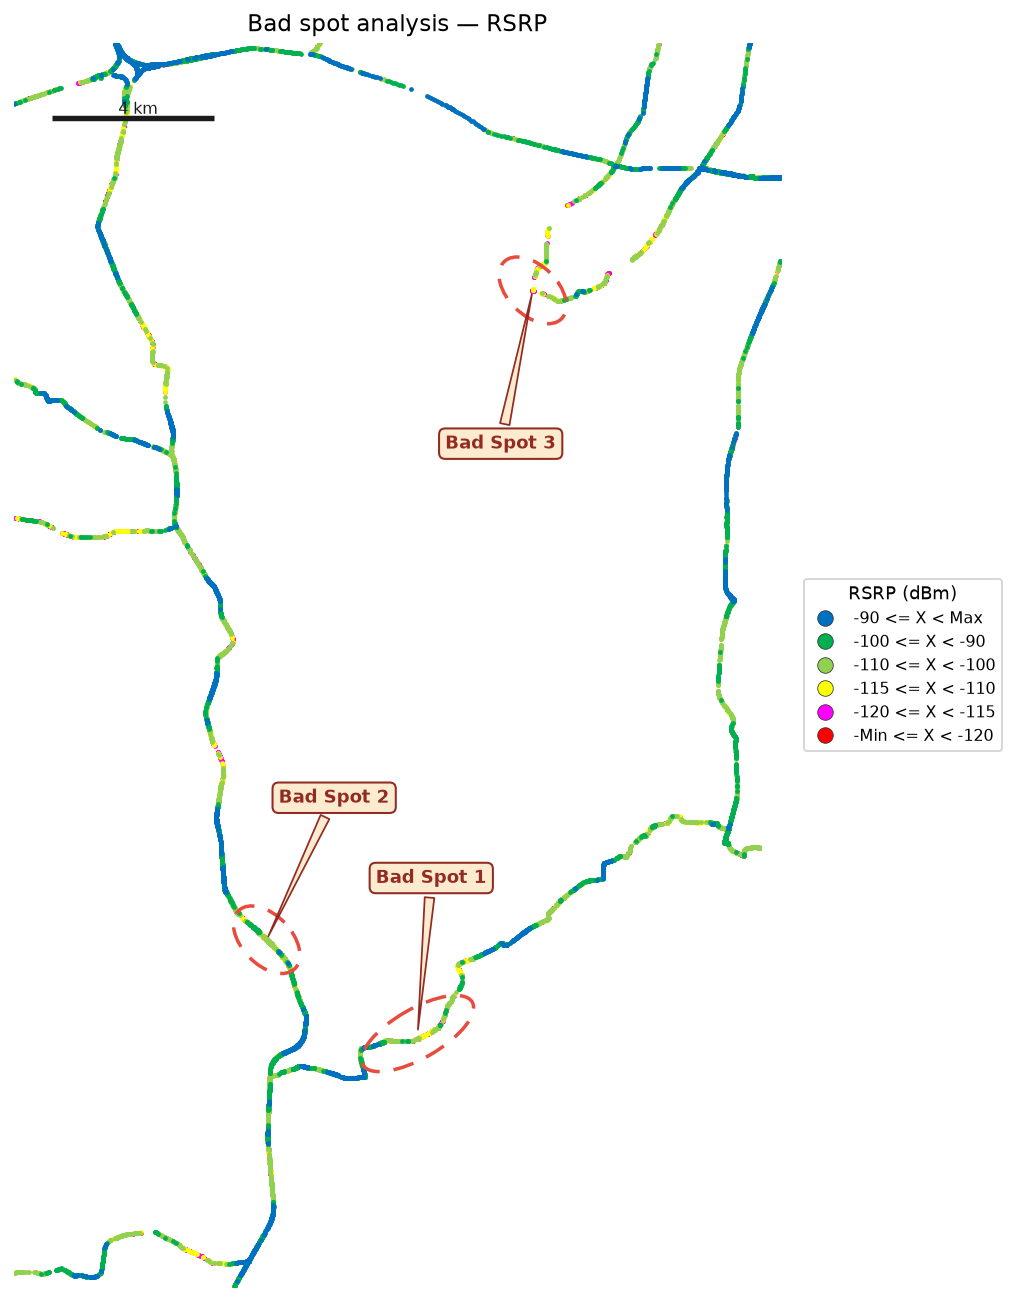
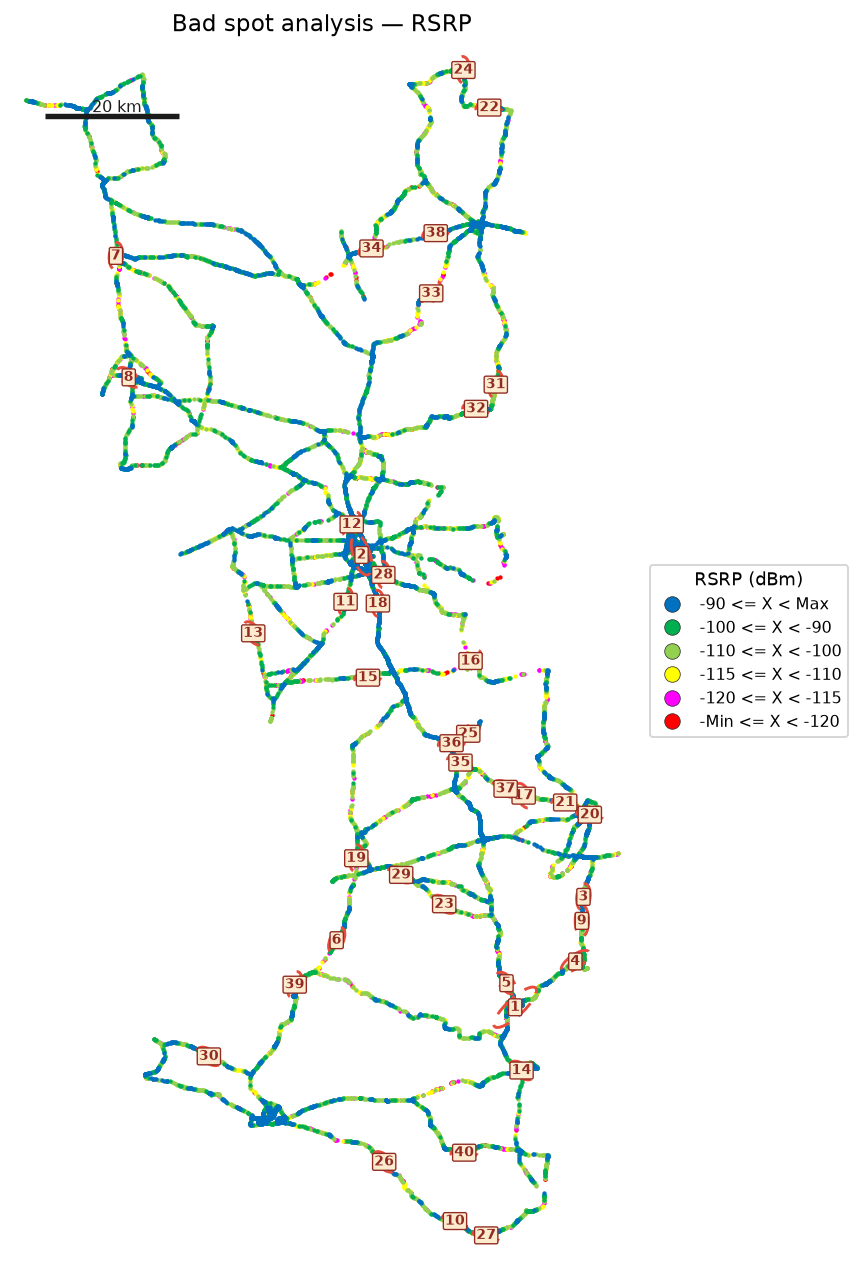
Mark every dense poor stretch on the full Bad Spot maps
The previous analysis only labelled three nearby clusters and zoomed
in, so most coverage holes on the drive were missed. Cluster poor
samples across the whole route and circle them on the full map.

diff --git a/merge_and_analyze.py b/merge_and_analyze.py
@@ -255,13 +255,11 @@ def plot_sinr_coverage_map(df: pd.DataFrame, path: Path, max_points: int = 25000
     )
 
 
-# Poor-sample rules for bad-spot clustering (legend bins that are yellow or worse).
-BAD_SPOT_GRID_DEG = 0.004
-BAD_SPOT_COUNT = 3
-BAD_SPOT_RADIUS_KM = 30
-BAD_SPOT_MIN_CELL_N = 40
-BAD_SPOT_MIN_POOR = 40
-BAD_SPOT_MIN_FRAC = 0.35
+# Poor-sample clustering. Use the full drive map and keep every dense
+# yellow/magenta/red stretch — not just the three worst nearby clusters.
+BAD_SPOT_GRID_DEG = 0.01  # ~1.1 km cells
+BAD_SPOT_MIN_POOR = 180
+BAD_SPOT_MAX = 40
 BAD_SPOT_RULES = {
     "RSRP": {"threshold": -115.0, "unit": "dBm"},
     "RSRQ": {"threshold": -15.0, "unit": "dB"},
@@ -285,21 +283,23 @@ def cluster_poor_cells(
     column: str,
     threshold: float,
     grid_deg: float = BAD_SPOT_GRID_DEG,
-    min_n: int = BAD_SPOT_MIN_CELL_N,
     min_poor: int = BAD_SPOT_MIN_POOR,
-    min_frac: float = BAD_SPOT_MIN_FRAC,
 ) -> pd.DataFrame:
-    """Merge adjacent grid cells of poor samples into scored clusters."""
+    """Cluster poor samples on a ~1 km grid and merge adjacent cells.
+
+    Every dense yellow/magenta/red stretch becomes a spot. Nearby cells join;
+    separate holes on other roads stay separate.
+    """
     g = df.dropna(subset=["Longitude", "Latitude", column]).copy()
     values = pd.to_numeric(g[column], errors="coerce")
-    g = g.loc[values.notna()].copy()
+    g = g.loc[values.notna() & (values < threshold)].copy()
     g[column] = values.loc[g.index]
-    g["poor"] = g[column] < threshold
+    if g.empty:
+        return pd.DataFrame()
     g["latb"] = np.floor(g["Latitude"] / grid_deg).astype(int)
     g["lonb"] = np.floor(g["Longitude"] / grid_deg).astype(int)
     agg = g.groupby(["latb", "lonb"], sort=False).agg(
-        n=(column, "size"),
-        n_poor=("poor", "sum"),
+        n_poor=(column, "size"),
         mean=(column, "mean"),
         lat=("Latitude", "mean"),
         lon=("Longitude", "mean"),
@@ -308,8 +308,7 @@ def cluster_poor_cells(
         lon_min=("Longitude", "min"),
         lon_max=("Longitude", "max"),
     )
-    agg["frac"] = agg["n_poor"] / agg["n"]
-    hot = agg[(agg["n"] >= min_n) & (agg["frac"] >= min_frac) & (agg["n_poor"] >= min_poor)]
+    hot = agg[agg["n_poor"] >= min_poor]
     if hot.empty:
         return pd.DataFrame()
 
@@ -332,9 +331,8 @@ def cluster_poor_cells(
                     queue.append(nb)
                     group.append(nb)
         part = hot.loc[group]
-        n = int(part["n"].sum())
         n_poor = int(part["n_poor"].sum())
-        weights = part["n"].to_numpy(dtype=float)
+        weights = part["n_poor"].to_numpy(dtype=float)
         mean = float(np.average(part["mean"], weights=weights))
         lat = float(np.average(part["lat"], weights=weights))
         lon = float(np.average(part["lon"], weights=weights))
@@ -342,13 +340,11 @@ def cluster_poor_cells(
         lat_max = float(part["lat_max"].max())
         lon_min = float(part["lon_min"].min())
         lon_max = float(part["lon_max"].max())
-        frac = n_poor / n if n else 0.0
-        score = n_poor * frac * max(0.0, threshold - mean)
         rows.append(
             {
-                "n": n,
+                "n": n_poor,
                 "n_poor": n_poor,
-                "poor_pct": frac,
+                "poor_pct": 1.0,
                 "mean": mean,
                 "lat": lat,
                 "lon": lon,
@@ -358,25 +354,17 @@ def cluster_poor_cells(
                 "lon_max": lon_max,
                 "span_lat_km": (lat_max - lat_min) * 111.32,
                 "span_lon_km": (lon_max - lon_min) * _km_per_deg_lon(lat),
-                "score": score,
+                "score": n_poor * max(0.0, threshold - mean),
             }
         )
     return pd.DataFrame(rows).sort_values("score", ascending=False).reset_index(drop=True)
 
 
-def select_nearby_spots(clusters: pd.DataFrame, count: int = BAD_SPOT_COUNT, radius_km: float = BAD_SPOT_RADIUS_KM) -> pd.DataFrame:
-    """Keep the worst cluster and the next-worst clusters near it (one zoomed view)."""
+def select_all_spots(clusters: pd.DataFrame, max_spots: int = BAD_SPOT_MAX) -> pd.DataFrame:
+    """Keep every significant cluster on the full drive, not one local window."""
     if clusters.empty:
         return clusters
-    ranked = clusters.sort_values("score", ascending=False).reset_index(drop=True)
-    seed = ranked.iloc[0]
-    nearby = ranked.head(1)
-    for radius in (radius_km, radius_km * 1.5, radius_km * 2.5):
-        dist = _equirect_km(seed["lat"], seed["lon"], ranked["lat"], ranked["lon"])
-        nearby = ranked.loc[dist <= radius].head(count)
-        if len(nearby) >= count:
-            break
-    return nearby.reset_index(drop=True)
+    return clusters.sort_values("score", ascending=False).head(max_spots).reset_index(drop=True)
 
 
 def _spot_extra_stats(df: pd.DataFrame, spot: pd.Series) -> dict:
@@ -395,19 +383,34 @@ def _spot_extra_stats(df: pd.DataFrame, spot: pd.Series) -> dict:
     }
 
 
-def find_bad_spots(df: pd.DataFrame, column: str, count: int = BAD_SPOT_COUNT) -> pd.DataFrame:
-    """Return the top local bad spots for one KPI, numbered 1..N."""
+def find_bad_spots(df: pd.DataFrame, column: str, max_spots: int = BAD_SPOT_MAX) -> pd.DataFrame:
+    """Return every significant bad spot for one KPI on the full drive, numbered 1..N."""
     rule = BAD_SPOT_RULES[column]
     clusters = cluster_poor_cells(df, column, rule["threshold"])
-    spots = select_nearby_spots(clusters, count=count)
+    spots = select_all_spots(clusters, max_spots=max_spots)
     if spots.empty:
         return spots
     extras = [_spot_extra_stats(df, row) for _, row in spots.iterrows()]
     spots = spots.copy()
+    bbox_n = []
+    bbox_poor = []
+    for _, row in spots.iterrows():
+        box = df[
+            df["Latitude"].between(row["lat_min"], row["lat_max"])
+            & df["Longitude"].between(row["lon_min"], row["lon_max"])
+        ]
+        vals = pd.to_numeric(box[column], errors="coerce")
+        n = int(vals.notna().sum())
+        n_poor = int((vals < rule["threshold"]).sum())
+        bbox_n.append(n)
+        bbox_poor.append(n_poor)
     spots["spot"] = np.arange(1, len(spots) + 1)
     spots["kpi"] = column
     spots["threshold"] = rule["threshold"]
     spots["unit"] = rule["unit"]
+    spots["n"] = bbox_n
+    spots["n_poor"] = bbox_poor
+    spots["poor_pct"] = np.array(bbox_poor) / np.maximum(np.array(bbox_n), 1)
     spots["mean_rsrp"] = [e["mean_rsrp"] for e in extras]
     spots["mean_rsrq"] = [e["mean_rsrq"] for e in extras]
     spots["mean_sinr"] = [e["mean_sinr"] for e in extras]
@@ -415,7 +418,7 @@ def find_bad_spots(df: pd.DataFrame, column: str, count: int = BAD_SPOT_COUNT) -
     return spots
 
 
-def _ellipse_from_points(lons: np.ndarray, lats: np.ndarray, min_km: float = 2.0) -> tuple[float, float, float, float, float]:
+def _ellipse_from_points(lons: np.ndarray, lats: np.ndarray, min_km: float = 4.0, max_km: float = 14.0) -> tuple[float, float, float, float, float]:
     """Return ellipse center/width/height/angle so a dashed oval follows the poor samples."""
     lon0 = float(np.mean(lons))
     lat0 = float(np.mean(lats))
@@ -423,7 +426,9 @@ def _ellipse_from_points(lons: np.ndarray, lats: np.ndarray, min_km: float = 2.0
     if len(lons) < 12:
         lon_span = max(float(np.max(lons) - np.min(lons)) if len(lons) else 0.0, min_km / km_lon)
         lat_span = max(float(np.max(lats) - np.min(lats)) if len(lats) else 0.0, min_km / 111.32)
-        return lon0, lat0, lon_span * 1.6, lat_span * 1.6, 0.0
+        width_deg = min(lon_span * 1.5, max_km / km_lon)
+        height_deg = min(lat_span * 1.5, max_km / 111.32)
+        return lon0, lat0, width_deg, height_deg, 0.0
     x = (lons - lon0) * km_lon
     y = (lats - lat0) * 111.32
     cov = np.cov(np.vstack([x, y]))
@@ -431,9 +436,8 @@ def _ellipse_from_points(lons: np.ndarray, lats: np.ndarray, min_km: float = 2.0
     order = np.argsort(eigvals)[::-1]
     eigvals = np.clip(eigvals[order], 0.05, None)
     eigvecs = eigvecs[:, order]
-    # ~2.4 sigma wraps the stretch of poor samples along the road.
-    width_km = max(3.0 * 2.0 * np.sqrt(eigvals[0]), min_km)
-    height_km = max(3.0 * 2.0 * np.sqrt(eigvals[1]), min_km * 0.6)
+    width_km = min(max(2.2 * 2.0 * np.sqrt(eigvals[0]), min_km), max_km)
+    height_km = min(max(2.2 * 2.0 * np.sqrt(eigvals[1]), min_km * 0.55), max_km * 0.7)
     angle = float(np.degrees(np.arctan2(eigvecs[1, 0], eigvecs[0, 0])))
     width_deg = width_km / km_lon
     height_deg = height_km / 111.32
@@ -462,38 +466,29 @@ def plot_bad_spot_map(
     legend_title: str,
     max_points: int = 25000,
 ) -> Path:
-    """Coverage map zoomed to the bad-spot area, with dashed ovals and callouts."""
+    """Full-drive coverage map with every significant poor stretch circled."""
     PLOTS_DIR.mkdir(parents=True, exist_ok=True)
     geo = df.dropna(subset=["Longitude", "Latitude", column]).copy()
     classes_all = class_series.reindex(geo.index)
-    if spots is None or spots.empty:
-        sample = downsample(geo, max_points=max_points)
-        classes = classes_all.reindex(sample.index)
-        lat_min = float(sample["Latitude"].min())
-        lat_max = float(sample["Latitude"].max())
-        lon_min = float(sample["Longitude"].min())
-        lon_max = float(sample["Longitude"].max())
-    else:
-        pad_lat = 0.06
-        pad_lon = 0.06
-        lat_min = float(spots["lat_min"].min()) - pad_lat
-        lat_max = float(spots["lat_max"].max()) + pad_lat
-        lon_min = float(spots["lon_min"].min()) - pad_lon
-        lon_max = float(spots["lon_max"].max()) + pad_lon
-        cropped = geo[
-            geo["Latitude"].between(lat_min, lat_max) & geo["Longitude"].between(lon_min, lon_max)
-        ]
-        if cropped.empty:
-            cropped = geo
-        sample = downsample(cropped, max_points=max_points)
-        classes = classes_all.reindex(sample.index)
+    sample = downsample(geo, max_points=max_points)
+    classes = classes_all.reindex(sample.index)
+    lat_min = float(geo["Latitude"].min())
+    lat_max = float(geo["Latitude"].max())
+    lon_min = float(geo["Longitude"].min())
+    lon_max = float(geo["Longitude"].max())
+    pad_lat = 0.02 * (lat_max - lat_min)
+    pad_lon = 0.02 * (lon_max - lon_min)
+    lat_min -= pad_lat
+    lat_max += pad_lat
+    lon_min -= pad_lon
+    lon_max += pad_lon
 
-    fig, ax = plt.subplots(figsize=(8.2, 9.4))
+    fig, ax = plt.subplots(figsize=(8.0, 9.2))
     for label, color in zip(reversed(labels), reversed(colors)):
         part = sample[classes == label]
         if part.empty:
             continue
-        ax.scatter(part["Longitude"], part["Latitude"], s=6, c=color, linewidths=0, rasterized=True, zorder=2)
+        ax.scatter(part["Longitude"], part["Latitude"], s=5, c=color, linewidths=0, rasterized=True, zorder=2)
     handles = [
         Line2D(
             [0],
@@ -524,8 +519,6 @@ def plot_bad_spot_map(
     if spots is not None and not spots.empty:
         threshold = float(spots["threshold"].iloc[0])
         poor = geo[pd.to_numeric(geo[column], errors="coerce") < threshold]
-        center_lon = (lon_min + lon_max) / 2.0
-        center_lat = (lat_min + lat_max) / 2.0
         for _, spot in spots.iterrows():
             box_poor = poor[
                 poor["Latitude"].between(spot["lat_min"], spot["lat_max"])
@@ -547,45 +540,28 @@ def plot_bad_spot_map(
                     fill=False,
                     edgecolor="#E74C3C",
                     linestyle=(0, (6, 4)),
-                    linewidth=1.8,
+                    linewidth=1.5,
                     zorder=4,
                 )
             )
-            km_lon = _km_per_deg_lon(cy)
-            vx = (center_lon - cx) * km_lon
-            vy = (center_lat - cy) * 111.32
-            norm = float(np.hypot(vx, vy)) or 1.0
-            ux, uy = vx / norm, vy / norm
-            # Spread labels so neighbouring spots do not stack.
-            spread = (int(spot["spot"]) - 2) * 0.55
-            px, py = -uy, ux
-            offset_km = 4.2
-            dx = (offset_km * ux + spread * px) / km_lon
-            dy = (offset_km * uy + spread * py) / 111.32
-            ax.annotate(
-                f"Bad Spot {int(spot['spot'])}",
-                xy=(cx, cy),
-                xytext=(cx + dx, cy + dy),
-                fontsize=9,
+            ax.text(
+                cx,
+                cy,
+                str(int(spot["spot"])),
+                fontsize=7,
                 fontweight="bold",
                 color="#922B21",
                 ha="center",
                 va="center",
-                bbox={
-                    "boxstyle": "round,pad=0.35",
-                    "facecolor": "#FDEBD0",
-                    "edgecolor": "#922B21",
-                    "linewidth": 1.05,
-                },
-                arrowprops={
-                    "arrowstyle": "wedge,tail_width=0.55",
-                    "facecolor": "#FDEBD0",
-                    "edgecolor": "#922B21",
-                    "linewidth": 0.9,
-                },
                 zorder=5,
+                bbox={
+                    "boxstyle": "round,pad=0.12",
+                    "facecolor": "#FDEBD0",
+                    "edgecolor": "#922B21",
+                    "linewidth": 0.7,
+                },
             )
-    add_map_scale_bar(ax, km=4)
+    add_map_scale_bar(ax, km=20)
     ax.set_title(title)
     hide_map_axes(ax)
     fig.tight_layout()

diff --git a/generate_excel_report.py b/generate_excel_report.py
@@ -57,7 +57,7 @@ from merge_and_analyze import (
     sinr_map_class,
 )
 
-REPORT_VERSION = "1.12"
+REPORT_VERSION = "1.13"
 REPORT_XLSX = OUTPUT_DIR / "Bogura_DriveTest_Report.xlsx"
 VERSIONED_XLSX = OUTPUT_DIR / f"Bogura_DriveTest_Report_v{REPORT_VERSION}.xlsx"
 
@@ -532,7 +532,7 @@ def build_cover(ws: Worksheet, df: pd.DataFrame) -> None:
     notes = [
         "Cover — dataset and KPI tables on the left, IDLE Mode plots on the right, Active Mode section at the bottom.",
         "RSRP / RSRQ / SINR — IDLE Mode coverage map on the left; Active Mode map on the right when those logs are provided.",
-        "Bad Spot Analysis — poor RSRP / RSRQ / SINR clusters circled on IDLE maps. Site icons will be added when the site database is provided.",
+        "Bad Spot Analysis — every dense poor stretch on the full IDLE maps is circled and numbered. Site icons will be added when the site database is provided.",
         "RSRP vs KPIs — RSRP vs SINR, RSRP vs RSRQ, dual-axis combined chart, and scatter with trend.",
         "Sample Log — evenly spaced subset of the merged samples (full 1.07M rows stay in output/Bogura_merged.csv.gz).",
         "These files are IDLE Mode. Active Mode coverage maps will be added when those logs are provided.",
@@ -688,8 +688,8 @@ def build_bad_spot_sheet(
         ws,
         note_row,
         1,
-        "A sample is poor when RSRP < -115 dBm, RSRQ < -15 dB, or SINR < 0 dB (yellow-or-worse legend bins). "
-        "Spots are adjacent clusters of those samples. Top Cell Id is from the drive log only — site names and sector icons will be added with the site database.",
+        "Every numbered oval is a dense cluster of poor samples on the full drive (RSRP < -115 dBm, RSRQ < -15 dB, or SINR < 0 dB). "
+        "Site names and sector icons will be added when the site database is provided.",
         size=9,
         wrap=True,
     )

diff --git a/README.md b/README.md
@@ -91,19 +91,19 @@ RSRP / RSRQ / SINR coverage maps use the Page 1 legend:
 
 Throughput (PDCP DL) and CQI are on the same legend sheet but are not in these IDLE logs, so those maps are not drawn yet.
 
-**Bad Spot Analysis** circles geographic clusters of poor samples (RSRP < −115 dBm, RSRQ < −15 dB, SINR < 0 dB) with dashed ovals and Bad Spot 1/2/3 callouts. Site names and sector icons are **not** drawn yet — those will be mapped when the site database is provided.
+**Bad Spot Analysis** circles **every dense poor stretch** on the full drive maps (RSRP < −115 dBm, RSRQ < −15 dB, SINR < 0 dB). Numbered ovals match the table. Site names and sector icons are **not** drawn yet — those will be mapped when the site database is provided.
 
-## Download Excel report (v1.12)
+## Download Excel report (v1.13)
 
-**v1.12 (current):** https://github.com/miles4482/Drive-test-Log-Analysis-and-Plot/raw/cursor/merge-bogura-drive-test-logs-7dfb/output/Bogura_DriveTest_Report_v1.12.xlsx
+**v1.13 (current):** https://github.com/miles4482/Drive-test-Log-Analysis-and-Plot/raw/cursor/merge-bogura-drive-test-logs-7dfb/output/Bogura_DriveTest_Report_v1.13.xlsx
 
 Latest copy: https://github.com/miles4482/Drive-test-Log-Analysis-and-Plot/raw/cursor/merge-bogura-drive-test-logs-7dfb/output/Bogura_DriveTest_Report.xlsx
 
-GitHub file page: https://github.com/miles4482/Drive-test-Log-Analysis-and-Plot/blob/cursor/merge-bogura-drive-test-logs-7dfb/output/Bogura_DriveTest_Report_v1.12.xlsx
+GitHub file page: https://github.com/miles4482/Drive-test-Log-Analysis-and-Plot/blob/cursor/merge-bogura-drive-test-logs-7dfb/output/Bogura_DriveTest_Report_v1.13.xlsx
 
 ## Excel report
 
-`output/Bogura_DriveTest_Report_v1.12.xlsx` (also saved as `output/Bogura_DriveTest_Report.xlsx`)
+`output/Bogura_DriveTest_Report_v1.13.xlsx` (also saved as `output/Bogura_DriveTest_Report.xlsx`)
 
 Sheet banners do not include the file version. The filename still carries the version when the report is updated.
 
@@ -111,7 +111,7 @@ Sheet banners do not include the file version. The filename still carries the ve
 | --- | --- |
 | Cover | IDLE Mode bar, dataset/KPI tables on the left, histograms on the right, Active Mode bar at the bottom |
 | RSRP / RSRQ / SINR | IDLE Mode coverage map on the left and Active Mode placeholder on the right (no statistics table) |
-| Bad Spot Analysis | IDLE Mode poor-sample clusters for RSRP, RSRQ and SINR (site icons later) |
+| Bad Spot Analysis | Full-drive IDLE maps with every dense poor stretch circled for RSRP, RSRQ and SINR (site icons later) |
 | RSRP vs KPIs | RSRP vs SINR, RSRP vs RSRQ, dual-axis combined chart, and scatter plots with trend |
 | Sample Log | Evenly spaced subset of the merged samples |
 
